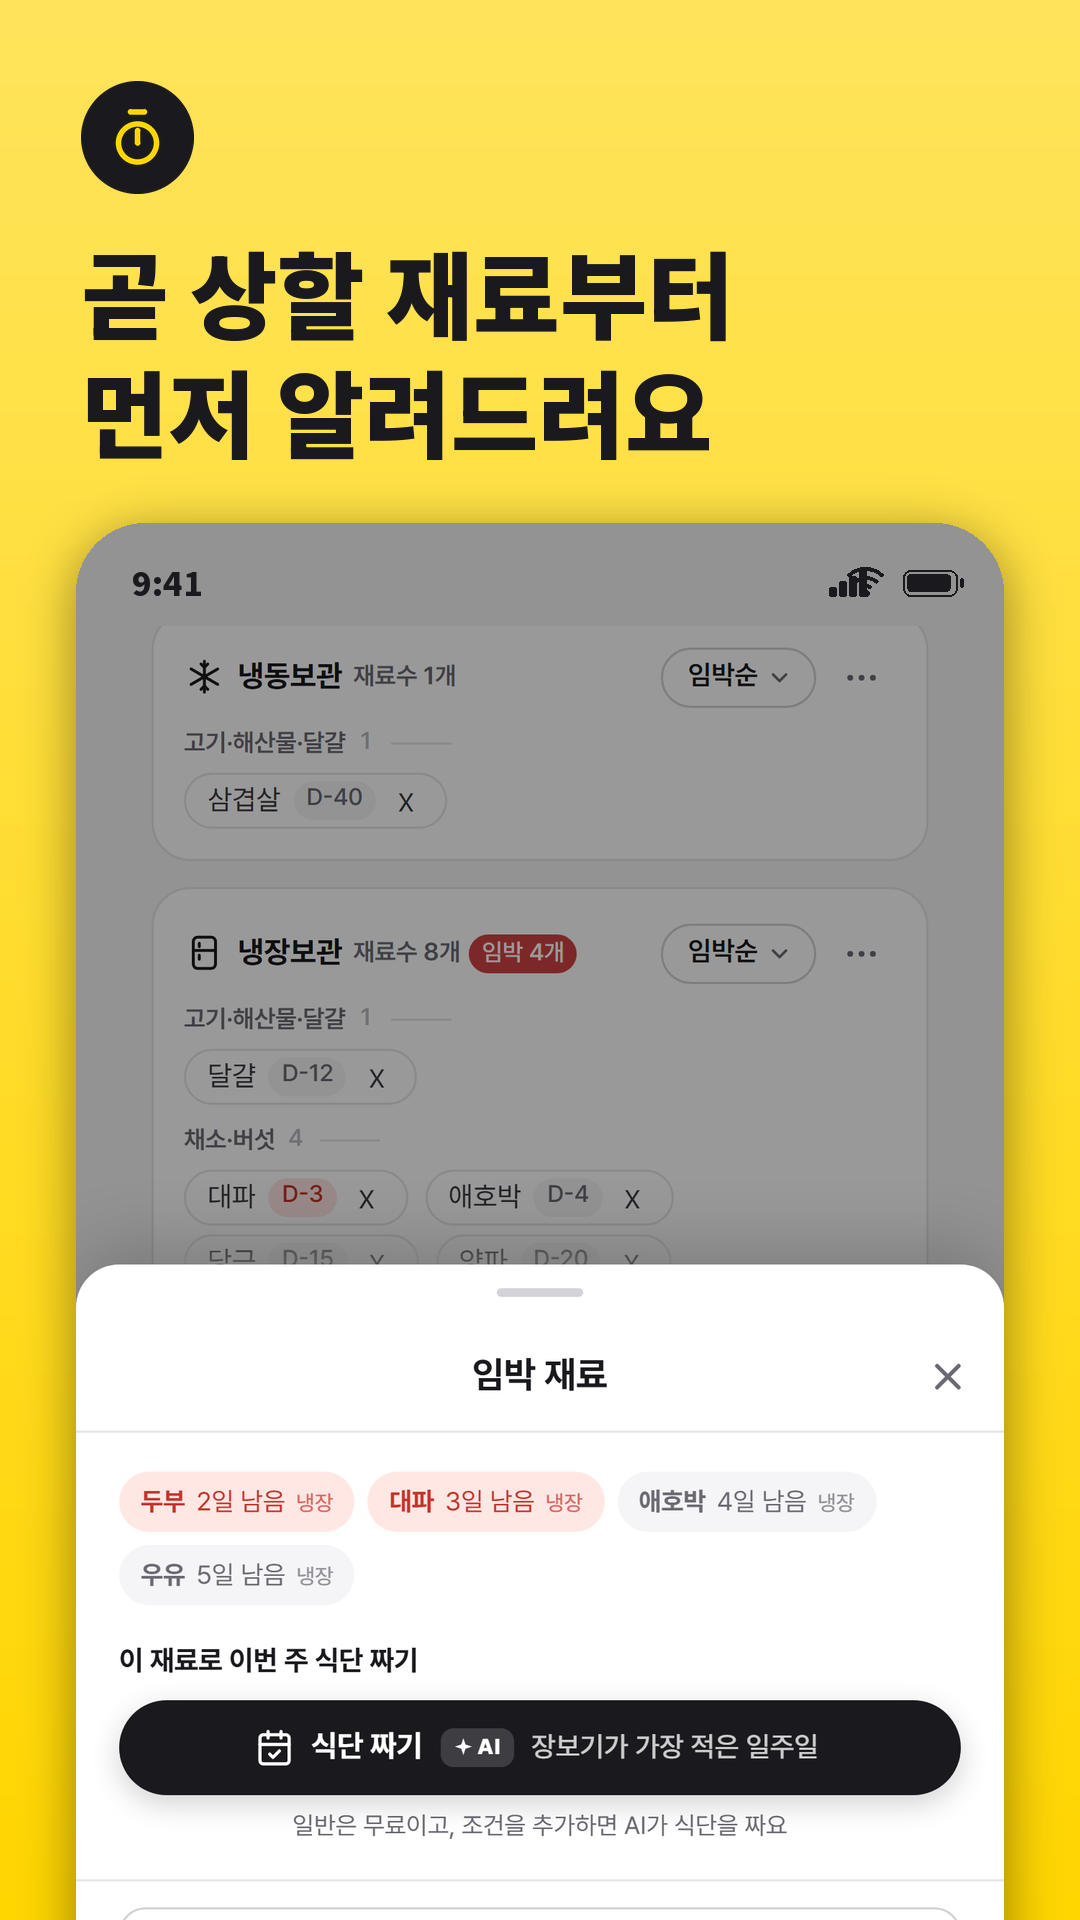
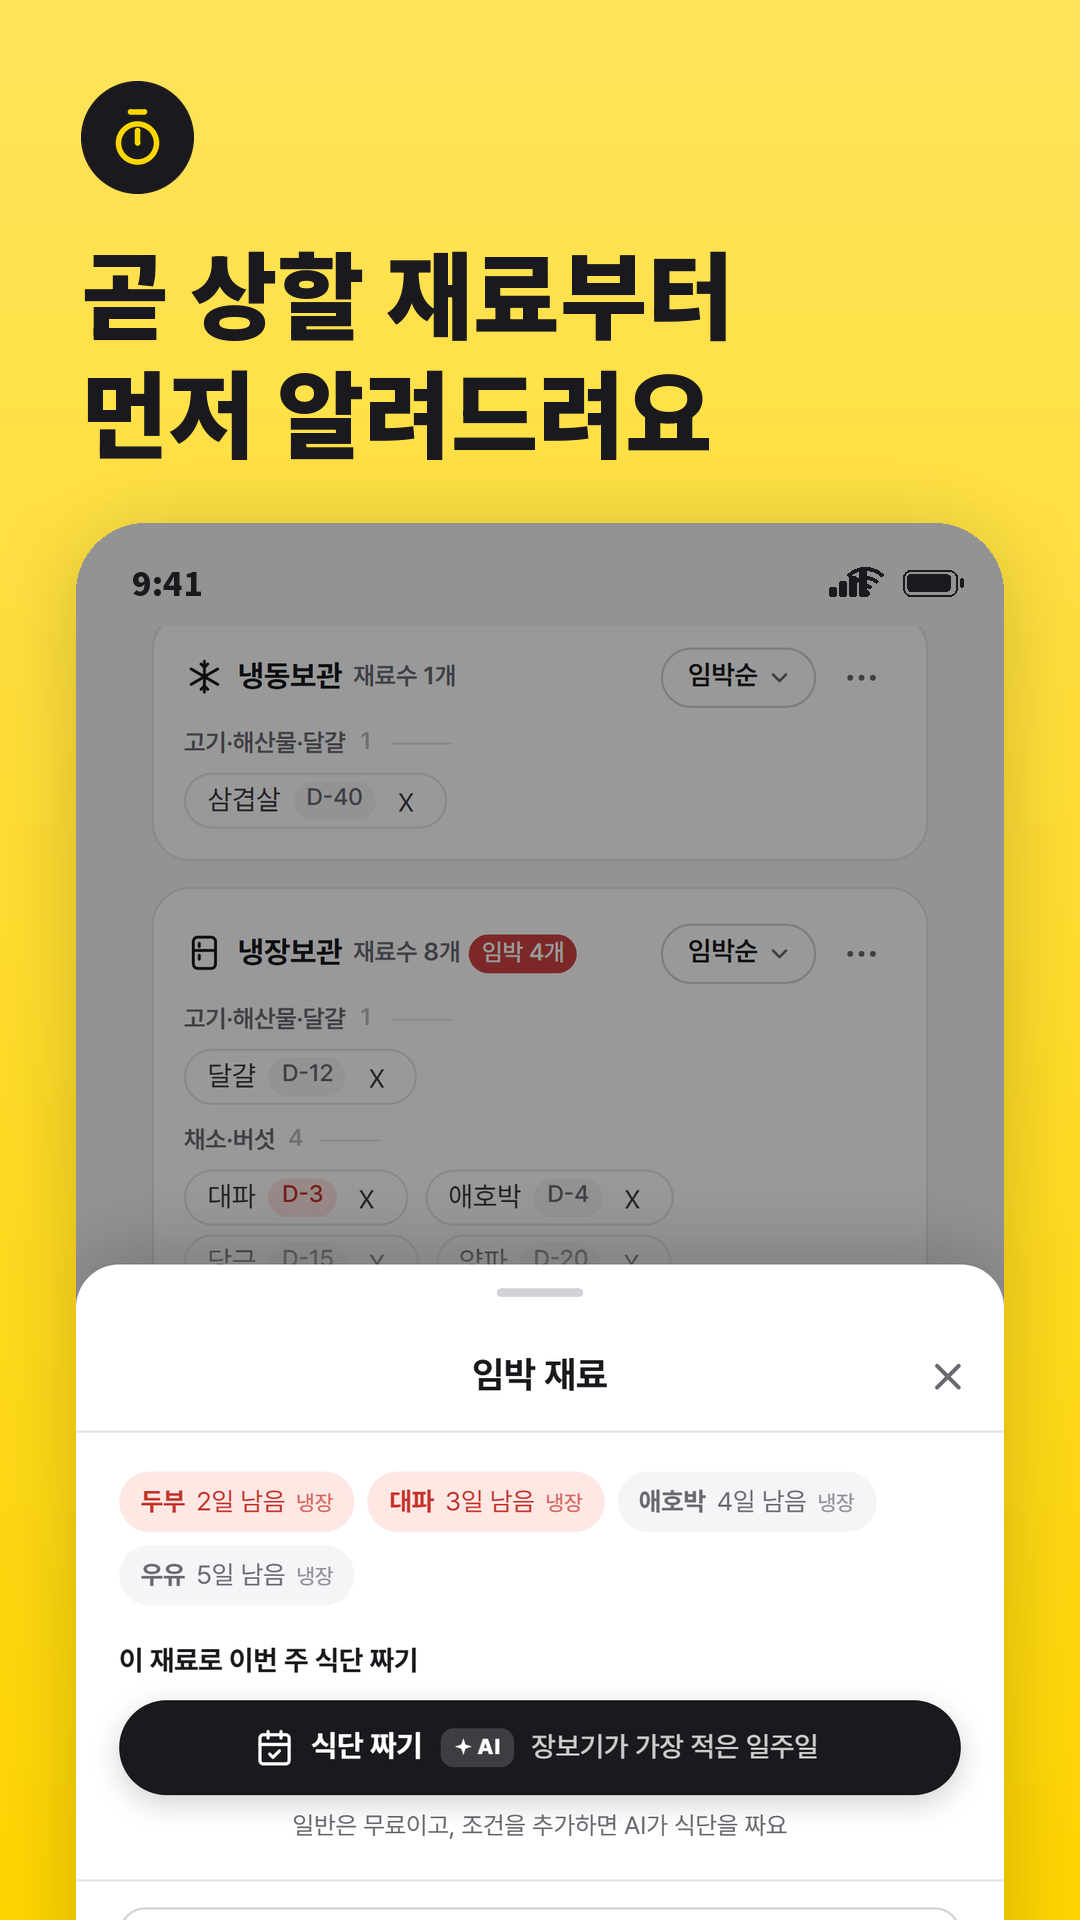
스토어 스크린샷 v3 수정: 순서 재배치(요약·듣기 2번)·사진 장 음식 사진 추가·AI 장 사진 조각 제거·썸네일 블러 해제·노란 조각 제거

Changed region(s): [[0.9167, 0.3125, 0.9472, 1.0], [0.0611, 0.3125, 0.0917, 1.0]]

diff --git a/store/STORE_LISTING.md b/store/STORE_LISTING.md
@@ -82,33 +82,51 @@
 3. *주의*: 1번 콜라주는 레시피 사진(네이버 블로그·유튜브 썸네일, 앱 목록에 나오는 그대로)을 크게 쓴다. v1 도 화면 안에 같은 사진이 나오지만 v2 는 사진 자체가 주인공이라 저작권·심사(애플 5.2 지식재산권) 쪽 위험이 조금 더 크다. 걱정되면 콜라주를 직접 만든 요리 사진(`my-video/public/cooking/`)으로 바꾸면 된다(`make_store_assets_v2.py` 의 `BRAND_PHOTOS`).
 - 올림용 묶음(untracked, 로컬): `store/upload_packages/v2_GooglePlay_폰_1080x1920_8장.zip`·`v2_AppStore_1290x2796_8장.zip`·`v2_AppStore_1206x2622_8장.zip`, 미리보기 `v2_미리보기_올리는_순서.png`, v1 과의 비교 `v1_vs_v2_비교.png`(윗줄 v1, 아랫줄 v2).
 
-### v3 — 우리 스타일 + v2 내용 8장 (2026-11-07, `store/screenshots_v3/`, 최종 추천안)
+### v3 — 우리 스타일 + v2 내용 8장 (2026-11-07, `store/screenshots_v3/`, 최종 추천안; 같은 날 피드백으로 순서·사진 장·썸네일·노란 조각을 고침)
 
-**왜 만들었나**: 사용자 피드백 「v2 가 내용은 더 좋은데 당근 스타일 디자인이 안 예쁘다. 디자인은 우리 식(v1 의 노랑/검정 꽉 찬 브랜드 스타일)으로, v2 의 내용을 최대한 살려라」 + 「v2 첫 장이 남의 사진(네이버 블로그·유튜브 썸네일) 콜라주라 저작권 위험」. 그래서 **v2 의 8장 구성·헤드라인·이야기 흐름·AI 통합 장은 그대로** 두고 **v1 의 시각 언어**(노랑 `#FFD600` / 검정 `#1A1A1E` 꽉 찬 배경을 번갈아, 큰 굵은 왼쪽 정렬 헤드라인, ✦AI 칩, 폰 화면 크게)로 다시 입혔다. 생성: `python store/make_store_assets_v3.py`(출력 `store/screenshots_v3/{play,ios,ios_1206x2622}/`, v1·v2 파일은 그대로).
+**왜 만들었나**: 사용자 피드백 「v2 가 내용은 더 좋은데 당근 스타일 디자인이 안 예쁘다. 디자인은 우리 식(v1 의 노랑/검정 꽉 찬 브랜드 스타일)으로, v2 의 내용을 최대한 살려라」 + 「v2 첫 장이 남의 사진(네이버 블로그·유튜브 썸네일) 콜라주라 저작권 위험」. 그래서 v2 의 구성·이야기 흐름을 살리고 **v1 의 시각 언어**(노랑 `#FFD600` / 검정 `#1A1A1E` 꽉 찬 배경을 번갈아, 큰 굵은 왼쪽 정렬 헤드라인, ✦AI 칩, 폰 화면 크게)로 다시 입혔다. 생성: `python store/make_store_assets_v3.py [--before 이전_v3_play_폴더]`(출력 `store/screenshots_v3/{play,ios,ios_1206x2622}/`, v1·v2 파일은 그대로).
 
-**v1 보다 한 단계 정돈한 점**: ① 모든 장이 같은 머리말 틀 — 맨 위 한 줄에 둥근 **아이콘 원**(+ AI 장이면 ✦AI 알약), 그 아래 헤드라인 두 줄(전 장 같은 크기·같은 위치), ② 노랑/검정 **엄격하게 번갈아**(1 노랑 · 2 검정 · 3 노랑 · 4 검정 · 5 노랑 · 6 검정 · 7 노랑 · 8 검정; 칩·카드 색도 배경에 맞춰 반전), ③ 폰 화면은 v2 처럼 **웹 상단 줄(CookMatch·로그인/회원가입)을 잘라 내고 iOS 상태줄 9:41** 을 그려 넣었고 아래는 화면 밖으로 잘림(세로로 긴 iOS 캔버스에서 화면이 짧으면 폰을 0.86W→최대 0.92W 로 키우거나 아래로 내려 간격 흡수), ④ 글은 헤드라인 + (1번만) 보조 두 줄.
+**v3 공통 틀**: ① 모든 장이 같은 머리말 틀 — 맨 위 한 줄에 둥근 **아이콘 원**(+ AI 장이면 ✦AI 알약), 그 아래 헤드라인 두 줄(전 장 같은 크기·같은 위치), ② 노랑/검정 **엄격하게 번갈아**(1 노랑 · 2 검정 · 3 노랑 · 4 검정 · 5 노랑 · 6 검정 · 7 노랑 · 8 검정; 칩·카드 색도 배경에 맞춰 반전), ③ 폰 화면은 **웹 상단 줄(CookMatch·로그인/회원가입)을 잘라 내고 iOS 상태줄 9:41** 을 그려 넣었고 아래는 화면 밖으로 잘림.
+
+#### 2026-11-07 피드백 수정판 — 순서 = 올리는 순서
+
+맥락이 묶이는 것끼리 묶었다: **1 브랜드·차별점(인기 레시피 4만 개) → 2 요약된 단계 + 귀로 듣기 → 3 내 냉장고 매칭 → 4 대체 재료 → 5 사진 등록 → 6 AI 통합 → 7 곧 상할 재료 → 8 가족**.
 
 | # | 파일 | 배경 | 헤드라인 | 화면 원본 |
 |---|---|---|---|---|
-| 1 | `01_brand` | 노랑 | **인기 레시피만 / 4만 개, / 뭘 골라도 맛집**(「4만 개,」는 크게 + 흰 형광펜 띠) + 보조 「네이버·유튜브에서 매일 엄선한 레시피를 / 냉장고 속 재료로 바로 찾아요」 | **앱 화면·남의 사진 없음.** 앱 아이콘 + 쿡매치 + 직접 그린 재료·조리도구 아이콘 타일 모자이크(당근·달걀프라이·냄비·토마토·두부·밥그릇·버섯·팬·고추·대파 10종, 기울여 오른쪽·아래로 흘림) + 앱의 「내 재료 4/5 (93%)」 표시를 본뜬 알약 |
-| 2 | `02_match` | 검정 | 내 냉장고 재료로 / 만들 수 있는 요리 찾기 | `sources/list_top_v3.png`(재촬영, 썸네일 블러) |
-| 3 | `03_substitute` | 노랑 | 재료가 없으면 / 대체 재료까지 알려줘요 | `sources/substitute_card_v3.png`(재촬영, 썸네일 블러, 「식용유→참기름」 칩) |
-| 4 | `04_photo` ✦AI | 검정 | 사진 한 장으로 / 재료 등록 끝 | `sources/photo_receipt_v2.png`(결과 시트 — 단순화된 현재 시트로 14:05 에 찍은 것, 재촬영 불필요) + **영수증 사진 한 장**(`camera_receipt.png` 위쪽 사업자 정보 줄 잘라 낸 부분) |
-| 5 | `05_ai` ✦AI | 노랑 | 물어보면 레시피부터 / 식단까지 척척 + **검정 카드 세 줄**(쿡 픽 오늘 뭐 먹을지 골라 줘요 · 식단 짜기 일주일 식단을 짜 줘요 · 쿡 코치 요리하다 막히면 답해 줘요) | `sources/chat_v3.png`(쿡 픽 대화, 재촬영, 썸네일 블러) |
-| 6 | `06_cook` | 검정 | 손 안 대고 / 귀로 듣는 요리 | `sources/cook_v3.png`(재촬영) |
+| 1 | `01_brand` | 노랑 | **인기 레시피만 / 4만 개, / 뭘 골라도 맛집**(「4만 개,」는 크게 + 흰 형광펜 띠) + 보조 「네이버·유튜브에서 매일 엄선한 레시피를 / 냉장고 속 재료로 바로 찾아요」 | **앱 화면·남의 사진 없음.** 앱 아이콘 + 쿡매치 + 직접 그린 재료·조리도구 아이콘 타일 모자이크 + 앱의 「내 재료 4/5 (93%)」 표시를 본뜬 알약(이번 수정에서 바꾸지 않음) |
+| 2 | `02_cook` | 검정 | **단계별로 요약해서 / 손 안 대고 귀로 듣기** + 흐름 칩 「원문 → **5단계 요약** → 읽어 주기」 | `sources/cook_v3.png`(재촬영). 조리 순서 5단계 목록이 크게 보이는 실제 레시피 창(「읽어 주기」 중, 읽는 단계 1 이 연노랑) |
+| 3 | `03_match` | 노랑 | 내 냉장고 재료로 / 만들 수 있는 요리 찾기 | `sources/list_top_v3.png`(재촬영, 썸네일·N/YT 배지 그대로) |
+| 4 | `04_substitute` | 검정 | 재료가 없으면 / 대체 재료까지 알려줘요 | `sources/substitute_card_v3.png`(재촬영, 썸네일 그대로, 「식용유→참기름」 칩) |
+| 5 | `05_photo` ✦AI | 노랑 | 사진 한 장으로 / 재료 등록 끝 + 칩 「영수증 · 음식 사진」 | `sources/photo_receipt_v2.png`(결과 시트 — 앱의 단순화된 현재 시트, 재촬영 불필요) + **카메라 화면에서 사진 부분만 잘라 낸 두 장을 겹쳐 얹음**: 영수증(`camera_receipt.png`) · 음식(`camera_pizza_cheese.png`, 피자치즈 사진). 앱 버튼 자체가 「사진으로 재료 담기 · 영수증·음식 사진」이라 사실과 같다. 쿠팡 주문내역(`camera_coupang.png`)은 로고·상품 사진 때문에 쓰지 않음 |
+| 6 | `06_ai` ✦AI | 검정 | 물어보면 레시피부터 / 식단까지 척척 + **카드 세 줄**(쿡 픽 오늘 뭐 먹을지 골라 줘요 · 식단 짜기 일주일 식단을 짜 줘요 · 쿡 코치 요리하다 막히면 답해 줘요) | `sources/chat_v3.png`(쿡 픽 대화, 재촬영, 썸네일 그대로). 「사진 찍기」 계열 요소 없음 — 폰 위쪽 흐린 배경에 남던 조각을 지움 |
 | 7 | `07_expiry` | 노랑 | 곧 상할 재료부터 / 먼저 알려드려요 | `sources/expiry_v3.png`(재촬영) |
-| 8 | `08_family` | 검정 | 가족과 함께 쓰고 / 아낀 돈도 한눈에 | `sources/family_v3.png`(재촬영, 썸네일 블러) |
+| 8 | `08_family` | 검정 | 가족과 함께 쓰고 / 아낀 돈도 한눈에 | `sources/family_v3.png`(재촬영, 목록 썸네일 그대로) |
 
-**v2 대비 바뀐 점**: 흰 배경 당근 스타일 → 노랑/검정 꽉 찬 우리 스타일(내용·순서·헤드라인은 동일). 첫 장 콜라주 → 타이포+직접 그린 아이콘 타일. 앱 화면 속 레시피 사진 전부 블러. 4번 사진 장에서 쿠팡 주문내역 카드 삭제(영수증만). 5번 AI 장의 세 줄을 글자 줄 → 검정 카드(아이콘 원 + 이름 + 한 줄 설명)로. 아이콘 칩이 노랑 원+검정 선 → 배경 반전 원(노랑 배경엔 검정 원, 검정 배경엔 노랑 원). 헤드라인 가운데 정렬 → v1 처럼 왼쪽 정렬·더 크게(Play 95px/iOS 114px). 나머지 장도 현재 앱으로 다시 찍었다(요즘인기·쿡 코치·사진 시트 UI 변경 이후).
+**이번 수정으로 바뀐 것(이유)**:
+1. **5번이던 AI 장에서 「사진 찍기」를 뺌** → 지금 6번 장은 쿡 픽·식단 짜기·쿡 코치만. 이유: 폰 위쪽 흐린 배경에 남은 알약·조각이 사진 기능처럼 보였다(`fix_chat()` 이 시트 위 흐린 배경의 매칭도·필터 줄 조각을 배경색으로 덮고, 시트 자체는 그대로).
+2. **사진 장(지금 5번)에 음식 사진 추가**: 영수증 한 장만 보이던 것을 영수증 + 음식 사진 두 장 + 「영수증 · 음식 사진」 칩 + 아래 읽은 결과 시트로 「사진 → 재료 목록」이 한눈에 보이게. 카메라 원본(`store/sources/camera_*`)은 노란 초점 괄호·줌 버튼·셔터가 있어 **사진 영역만** 잘라 쓴다(노란 UI 제외).
+3. **듣기 장을 2번으로**, 헤드라인에 「요약」을 넣음: 앱 레시피 창의 「조리 순서」는 원문 블로그·영상을 단계별로 정리한 것이고(창 하단 문구도 「원문을 요약한 거예요」) 「읽어 주기」로 읽어 준다 — 문구가 사실. 「5단계」는 이 장에 보이는 레시피가 5단계라서 쓴 값(화면과 같다). 길던 원문이 줄었다는 가짜 연출 화면은 만들지 않았다.
+4. **썸네일 블러·N/YT 배지 가림 해제**: 사용자 판단 「앱스토어에 올린 것들은 원래부터 네이버·유튜브 이미지를 써서 괜찮을 것」(2026-11-07 사용자가 말한 사실 기록). 재촬영 시 블러·로고 가림 코드를 껐다. **첫 장은 그대로 직접 그린 타이포·아이콘** 이고 네이버·유튜브 로고 이미지는 새로 만들어 넣지 않았다(글자로만).
+5. **「노란 테두리」 제거**: 사용자가 위치를 지정하지 않아 8장을 모두 열어 장식으로 붙은 노란 외곽·조각을 찾았다(아래 표). 앱 UI 의 기능 색(노란 체크박스·「5개 담기」 버튼·읽는 단계 칩·쿡 픽 노란 아바타 원)은 그대로.
 
-**첫 장 저작권 대응(설계)**: ① 남의 사진을 한 장도 쓰지 않는다 — 1번 장의 모든 그림은 PIL 로 직접 그린 것(`glyph()`). ② 「네이버·유튜브」는 **글자로만**(상표 로고 이미지 없음). ③ 사실 근거: 2026-11-07 운영 DB 44,001건(네이버 39,630 + 유튜브 4,371), 매일 07:00 수집 배치 11/1~11/7 동작 기록(v2 절 참고; PC 가 꺼진 날은 건너뛰므로 「매일」은 실제로 「거의 매일」). ④ 다른 장의 앱 화면 속 썸네일은 **캡처할 때 브라우저에서 블러**(`filter: blur(너비의 2.25%)`, 큰 사진은 약 9px·작은 카드는 3.5px 이상, 사진 영역은 크기 고정) — 요리 모양·색은 어렴풋이 보이되 글자·워터마크·구도는 알아볼 수 없다. ⑤ 목록 카드의 출처 로고(네이버 N·유튜브 재생 버튼 24px 배지)는 가렸다(`visibility:hidden`). ⑥ 4번 장의 쿠팡 주문내역(로켓프레시 로고·상품 사진)은 뺐다.
-- **남는 위험(솔직히)**: (a) 카드 아래의 **게시물 제목 글자**(예: 「두부 계란부침 만들기 담백하게 챙기는 건강식 한 끼」)와 「내 재료 4/5」 같은 실제 앱 UI 는 그대로다 — 제목은 저작물로 보호받기 어려운 짧은 문구이고 앱이 실제로 보여 주는 화면이라 남겼으나, 걱정되면 제목도 흐리게 할 수 있다. (b) 블러라도 색감·대략의 구도는 남으므로 「사진을 복제했다」고 주장되면 이론상 문제 소지는 있으나 알아볼 수 없는 수준이라 위험은 v2 보다 훨씬 낮다. (c) 앱 자체가 네이버·유튜브 게시물을 보여 주는 서비스라는 사실(애플 5.2 의 근본 쟁점)은 스크린샷으로 해결되는 문제가 아니다(별개 — 출처 표기·원문 링크 구조는 앱에 이미 있음). (d) 앱 안 「원문에서 자세히 보기」 같은 문구는 실제 UI 다.
+| 장 | 노란 테두리로 본 것 | 처리 |
+|---|---|---|
+| 3·5·7(노랑 배경 장) | 폰 둘레에 퍼지던 **호박색 그림자 띠**(노랑 위의 검정 그림자 = 노란 외곽선처럼 보임) | 그림자 농도 105→46, 번짐 더 크게(중립적으로 옅게). 검정 장의 회색 외곽선은 그대로(노랗지 않음) |
+| 5 사진 | 흐린 배경 왼쪽에 삐져나오던 **노란 토글**(「종류별로 묶기」) + 뒤 카드 윤곽 | 흐린 배경 구간을 배경색으로 덮음(`fix_photo`) |
+| 6 AI | 시트 위 흐린 배경의 **노란 알약 조각**(매칭도 10%↑)·검은 필터 단추 | 덮음(`fix_chat`) |
+| 7 임박 | 세로로 긴 iOS 판에서만 보이던 흐린 배경의 **노란 「종류별로 묶기」 토글**·임박 배지 줄 | 덮음(`fix_expiry`) |
+| 5 사진(카드) | 카메라 화면의 **노란 초점 괄호**·노란 셔터 UI | 잘라 내는 범위에서 제외(영수증 카드는 괄호가 없는 중앙부만) |
+| (남김, 애매) | 3·4번 iOS 판 오른쪽 아래 **노란 「쿡 픽」 둥둥 단추**(앱 UI, 노랑 배경 장에서는 배경과 이어져 보일 수 있음), 2번 장의 읽는 단계 연노랑 칸 | 기능이라 그대로. 거슬리면 말해 주면 그 부분만 가린다 |
 
-**가짜 응답으로 찍은 장**: `04_photo`(결과 시트, `/api/ingredients/recognize` 가짜 — 영수증 품목 5개를 그대로 옮긴 응답, v2 와 같은 원본), `05_ai`(쿡 픽 대화, `/api/chat` 가짜 응답 — 레시피 3개는 실제 DB, 문장·이유 줄은 직접 씀), `08_family`(가족 API 샘플 식구 엄마·아빠, 이번 달 8회). 나머지(2·3·6·7)는 서버 응답 그대로의 실제 화면. 가로채지 못한 AI POST 는 막는 보호(`blocked`)가 캡처 스크립트에 들어 있어 이번에도 실제 AI 호출·크레딧 사용은 없었다.
+**첫 장 저작권 대응(설계, 변경 없음)**: ① 남의 사진을 한 장도 쓰지 않는다 — 1번 장의 모든 그림은 PIL 로 직접 그린 것(`glyph()`). ② 「네이버·유튜브」는 **글자로만**(상표 로고 이미지 없음). ③ 사실 근거: 2026-11-07 운영 DB 44,001건(네이버 39,630 + 유튜브 4,371), 매일 07:00 수집 배치(PC 가 꺼진 날은 건너뛰므로 「매일」은 실제로 「거의 매일」).
+- **남는 위험(솔직히)**: (a) 2·3·4·6·8번 장의 앱 화면에 이제 **네이버·유튜브 썸네일이 선명하게** 나온다(예: 두부 다이어트 요리, 계란말이, 쿡 픽 카드 3개) 와 N/YT 배지. 이전 v3 는 블러로 이를 피했다. 사용자가 「기존에 올린 앱스토어 이미지도 같은 이미지를 써서 괜찮다」고 판단했으므로 따랐지만, **이미 올린 것과 같다는 사실이 위험을 없애지는 않는다**(저작권자가 문제 삼으면 기존 이미지와 함께 해당됨, 애플 5.2·구글 지식재산권 정책). 걱정되면 다시 블러판(이전 v3, git 기록 `f8f6b5bb`)으로 돌릴 수 있다. (b) 카드 아래 게시물 제목 글자·「내 재료 4/5」 같은 UI 는 실제 앱 화면이라 그대로. (c) 앱 자체가 네이버·유튜브 게시물을 보여 주는 서비스라는 사실은 스크린샷으로 해결되는 문제가 아니다(출처 표기·원문 링크 구조는 앱에 이미 있음).
 
-**솔직한 판단 — v3 를 올리는 것을 추천한다.** 노랑/검정은 스토어 목록에서 흰 바탕보다 눈에 띄고(v1 의 장점), 내용은 v2 라서 차별점(인기 레시피 4만 개·냉장고 매칭·대체 재료)이 앞 세 장에 들어간다. 1번 장이 앱 화면이 아니라 일러스트·글자라서 「실제 앱 화면을 보여 줄 것」이라는 애플 기준에는 2~8번 장이 충족한다(1번은 브랜드 장). 효과는 데이터가 없으므로 구글 플레이 「스토어 등록정보 실험」(v1·v3 비교) / 애플 「제품 페이지 최적화」로 확인하는 것을 권한다.
-- 올림용 묶음(untracked, 로컬): `store/upload_packages/v3_GooglePlay_폰_1080x1920_8장.zip`·`v3_AppStore_1290x2796_8장.zip`·`v3_AppStore_1206x2622_8장.zip`, 미리보기 `v3_미리보기_올리는_순서.png`, v2 와의 비교 `v2_vs_v3_비교.png`(윗줄 v2, 아랫줄 v3).
-- 원본 다시 찍기: 셀레늄 크롬 헤드리스 430x932@3x(`localhost:5178`), `window.fetch` 가로채기, 캡처 직전에 모든 외부 `<img>` 를 블러·출처 로고 가림 후 촬영(이 캡처 스크립트는 스크래치패드에 있고 저장소엔 결과 원본 `store/sources/*_v3.png` 만 둔다).
+**가짜 응답으로 찍은 장**: `05_photo`(결과 시트, `/api/ingredients/recognize` 가짜 — 영수증 품목 5개를 그대로 옮긴 응답, 원본은 v2 와 같음), `06_ai`(쿡 픽 대화, `/api/chat` 가짜 응답 — 레시피 3개는 실제 DB, 문장·이유 줄은 직접 씀, 이번 수정에서 다시 찍음), `08_family`(가족 API 샘플 식구 엄마·아빠, 이번 달 8회, 다시 찍음). 나머지(2·3·4·7)는 서버 응답 그대로의 실제 화면. 가로채지 못한 AI POST(`/api/chat`·`/api/plan/suggest`·`/api/recipes/N/ask`·`/api/ingredients/recognize`)는 막는 보호(`blocked`)가 캡처 스크립트에 들어 있어 이번에도 실제 AI 호출·크레딧 사용은 없었다.
+
+**솔직한 판단 — v3 를 올리는 것을 추천한다.** 노랑/검정은 스토어 목록에서 흰 바탕보다 눈에 띄고, 앞 세 장에 차별점(인기 레시피 4만 개·요약된 단계·냉장고 매칭)이 들어간다. 1번 장이 앱 화면이 아니라 일러스트·글자라서 「실제 앱 화면을 보여 줄 것」이라는 애플 기준에는 2~8번 장이 충족한다. 효과는 데이터가 없으므로 구글 플레이 「스토어 등록정보 실험」/ 애플 「제품 페이지 최적화」로 확인하는 것을 권한다.
+- 올림용 묶음(untracked, 로컬): `store/upload_packages/v3_GooglePlay_폰_1080x1920_8장.zip`·`v3_AppStore_1290x2796_8장.zip`·`v3_AppStore_1206x2622_8장.zip`, 미리보기 `v3_미리보기_올리는_순서.png`, 이번 수정 전후 비교 `v3_before_after_비교.png`(윗줄 이전 v3, 아랫줄 새 v3), v2 와의 비교 `v2_vs_v3_비교.png`.
+- 원본 다시 찍기: 셀레늄 크롬 헤드리스 430x932@3x(`localhost:5178`), `window.fetch` 가로채기. 이번에는 블러·로고 가림 없이 그대로 촬영(캡처 스크립트는 스크래치패드에 있고 저장소엔 결과 원본 `store/sources/*_v3.png` 만 둔다).
 
 ---
 
